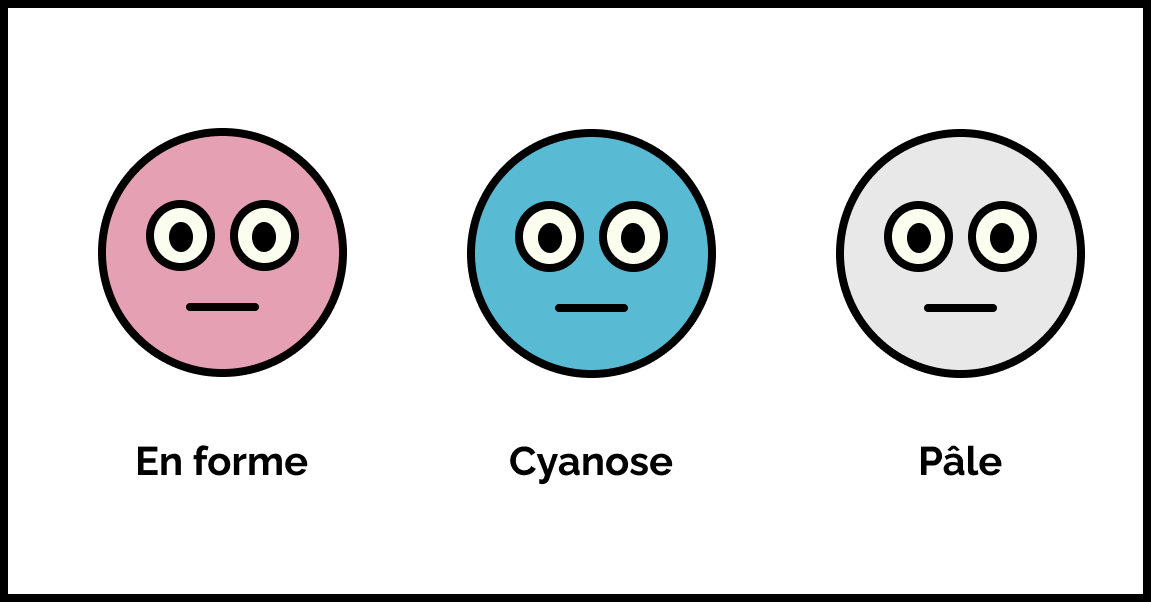
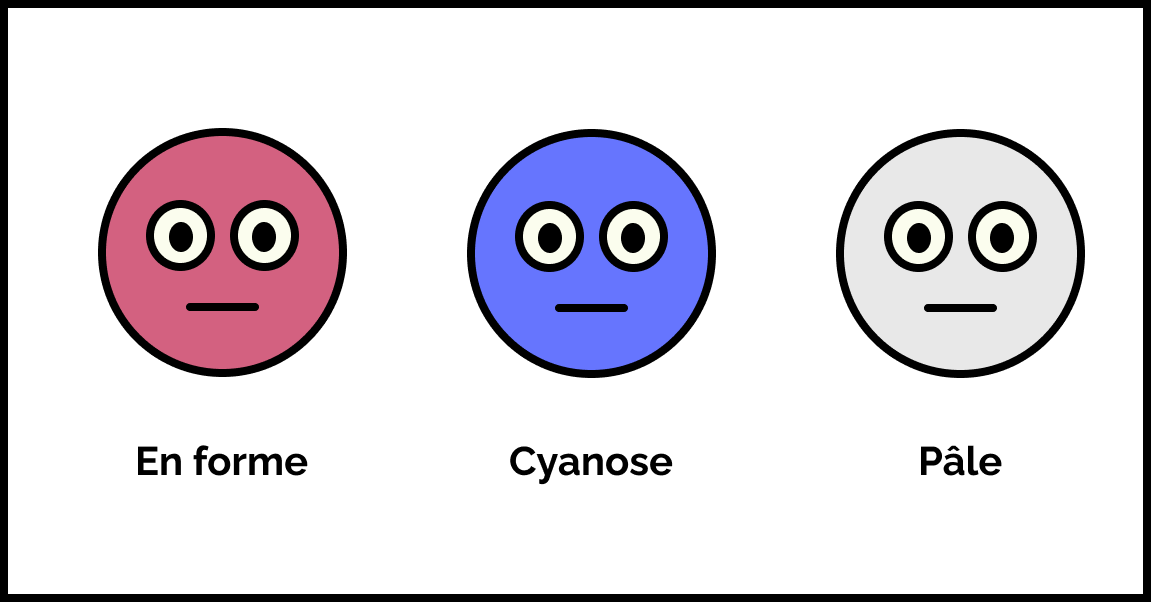
more v2.1 patches for pre-tri drill

Changed region(s): [[0.3953, 0.2093, 0.6386, 0.6279], [0.0912, 0.2093, 0.3041, 0.6279]]

diff --git a/gameModel/libs/ClientScript/game/display/graphics.ts b/gameModel/libs/ClientScript/game/display/graphics.ts
@@ -26,7 +26,7 @@ export interface HumanOverview {
  * Category Card SVG
  */
 function getCategoryCardSvg(category: Category<string> | undefined, x: number | string = 0, y: number|string = 0, size: number|string = 4): string {
-		return `<svg width="${size}" height="${size}" stroke-width="3.5%" viewBox="-10 -10 150 150" fill="none" x=${x} y=${y} xmlns="http://www.w3.org/2000/svg">
+		return `<svg width="${size}" height="${size}"  style="max-height:100%; max-width:100%;" stroke-width="3.5%" viewBox="-10 -10 150 150" fill="none" x=${x} y=${y} xmlns="http://www.w3.org/2000/svg">
 <path d="M0.5 64.0144V12.1875C0.5 5.73259 5.73259 0.5 12.1875 0.5H64.0144C67.1141 0.500016 70.0868 1.73139 72.2786 3.92322L126.077 57.7214C130.641 62.2856 130.641 69.6858 126.077 74.25L74.25 126.077C69.6858 130.641 62.2856 130.641 57.7214 126.077L3.92322 72.2786C1.73139 70.0868 0.500016 67.1141 0.5 64.0144ZM28.4375 15.75C21.4303 15.75 15.75 21.4303 15.75 28.4375C15.75 35.4447 21.4303 41.125 28.4375 41.125C35.4447 41.125 41.125 35.4447 41.125 28.4375C41.125 21.4303 35.4447 15.75 28.4375 15.75Z" fill="${category?.bgColor}"/>
 </svg>`
 }
@@ -76,7 +76,7 @@ interface PictoOptions {
 function getStanding({ height_px, classes, bloodStyle, category, offset }: PictoOptions) {
 	const left = offset ? -0.51 * height_px : 0;
 	const top = offset ? -0.97 * height_px : 0;
-	return `<svg style="position: relative; left: ${left}px; top:${top}px;  max-height:100%; max-width:100%;" class="body_picto ${classes}" height="${height_px}" max-height="100%" max-width="100%" viewBox="0 0 600 600" fill="black" xmlns="http://www.w3.org/2000/svg">
+	return `<svg style="position: relative; left: ${left}px; top:${top}px;  max-height:100%; max-width:100%;" class="body_picto ${classes}"  max-height="100%" max-width="100%" viewBox="0 0 600 600" fill="black" xmlns="http://www.w3.org/2000/svg">
     			<path style="${bloodStyle} transform-origin:50% 97%;" class="blood" d="M294,541.15s-30.72-2.98-38.99,0c-8.27,2.98-37.81,12.18-33.09,21.37,4.73,9.19,38.99,15.76,48.45,15.76s21.27,14.44,37.81,14.44,52.66-10.5,69.46-11.82c16.8-1.31,54.93-6.94,54.18-14.63-.75-7.69-22.57-17.33-37.66-16.45-15.09,.88-21.46-10.34-36.59-8.67-15.13,1.67-45.82,1.17-63.58,0Z" 
 				fill="#d11c1c"/>
 				<g>
@@ -96,7 +96,7 @@ function getStanding({ height_px, classes, bloodStyle, category, offset }: Picto
 function getSitting({ height_px, classes, bloodStyle, category, offset }: PictoOptions) {
 	const left = offset ? -0.635 * height_px : 0;
 	const top = offset ? -0.6 * height_px : 0;
-	return `<svg style="position: relative; left: ${left}px; top:${top}px; max-height:100%; max-width:100%;" class="body_picto ${classes}" height="${height_px}" viewBox="0 0 600 600" fill="black" xmlns="http://www.w3.org/2000/svg">
+	return `<svg style="position: relative; left: ${left}px; top:${top}px; max-height:100%; max-width:100%;" class="body_picto ${classes}" viewBox="0 0 600 600" fill="black" xmlns="http://www.w3.org/2000/svg">
     <path style="${bloodStyle}; transform-origin:65% 65%;" class="blood" d="M297.97,400.21s-30.72-2.98-38.99,0c-8.27,2.98-37.81,12.18-33.09,21.37,4.73,9.19,38.99,15.76,48.45,15.76s21.27,14.44,37.81,14.44,52.66-10.5,69.46-11.82c16.8-1.31,54.93-6.94,54.18-14.63-.75-7.69-22.57-17.33-37.66-16.45-15.09,.88-21.46-10.34-36.59-8.67-15.13,1.67-45.82,1.17-63.58,0Z" 
 fill="#d11c1c"/>
 	<g class="sitting_position">	
@@ -120,7 +120,7 @@ fill="#d11c1c"/>
 function getSupineDecubitus({ height_px, classes, bloodStyle, category, offset }: PictoOptions) {
 	const left = offset ? -0.44 * height_px : 0;
 	const top = offset ? -0.5 * height_px : 0;
-	return `<svg style="position: relative;left: ${left}px; top:${top}px; max-height:100%; max-width:100%;" class="body_picto ${classes}" width="${height_px}"  viewBox="0 0 600 600" fill="black" xmlns="http://www.w3.org/2000/svg">
+	return `<svg style="position: relative;left: ${left}px; top:${top}px; max-height:100%; max-width:100%;" class="body_picto ${classes}"   viewBox="0 0 600 600" fill="black" xmlns="http://www.w3.org/2000/svg">
     <path style="${bloodStyle}; transform-origin:50% 60%;" class="blood" d="M253.59,335.59s-30.72-2.98-38.99,0c-8.27,2.98-37.81,12.18-33.09,21.37,4.73,9.19,38.99,15.76,48.45,15.76s21.27,14.44,37.81,14.44,52.66-10.5,69.46-11.82c16.8-1.31,54.93-6.94,54.18-14.63-.75-7.69-22.57-17.33-37.66-16.45-15.09,.88-21.46-10.34-36.59-8.67-15.13,1.67-45.82,1.17-63.58,0Z" 
 fill= "#d11c1c"/>
 <path d="M581.61,295.92c-.01-2.06-.54-4.73-1.92-6.04-.54-.51-1.18-.76-1.89-.76h-.18c-1.83,.12-2.97,1.87-4,3.66-4,7.02-8.49,14.35-13.96,20.02,0,.01-.01,.01-.03,.03-4.77,4.97-10.28,8.66-16.87,9.79l-1.05,.18c-4.38,.74-9.33,1.59-13.67,1.78l-12.58,.3c-.26-.04-25.19-3.8-35.68-5.8-7.43-1.42-15-2.74-22.33-4.01-5.32-.93-10.82-1.88-16.22-2.87-5.42-.99-11.71-2.17-17.82-3.53-3.4-.74-6.77-1.78-10.04-2.77-4.05-1.23-8.23-2.51-12.47-3.27-4.44-.8-10.32-1.83-16.31-2.73-15.05-2.26-28.6-3.82-41.45-4.74-6.94-.5-12.64-.73-17.81-.73h-.93c-8.3,.05-17.38,1.12-26.17,2.16-9.93,1.18-20.2,2.4-29.32,2.12-3.49-.1-4.94-.88-6.61-1.75-1.37-.72-2.91-1.53-5.92-2.05-.03,0-.05-.04-.05-.08,.01-.03,.05-.05,.08-.05,3.02,.52,4.57,1.35,5.95,2.06,1.66,.88,3.1,1.63,6.56,1.74,9.11,.27,19.38-.94,29.31-2.12,8.79-1.03,17.89-2.1,26.18-2.16h.93c5.19,0,10.88,.24,17.82,.73,12.84,.93,26.39,2.48,41.46,4.74,5.98,.9,11.85,1.93,16.31,2.73,4.23,.77,8.43,2.04,12.48,3.27,3.27,.99,6.64,2.03,10.02,2.78,6.12,1.36,12.4,2.52,17.81,3.51,5.41,.99,10.91,1.95,16.23,2.87,7.32,1.27,14.9,2.59,22.33,4.01,10.48,2,35.42,5.76,35.67,5.8l12.57-.3c4.33-.18,9.28-1.03,13.64-1.78l1.05-.17c6.53-1.12,12.03-4.8,16.8-9.72h0c-.2-6.89,1.29-12.13,4.66-16.53,3.38-4.4,5.53-12.75,5.11-19.87-.12-2.03-.68-5.44-3.11-5.44-.5,0-1.23,.95-2,2.23-.77,1.27-1.58,2.86-2.23,4.13-.6,1.16-1.06,2.08-1.32,2.43-3.35,4.52-6.18,7.5-8.92,10.37-2.74,2.87-5.58,5.85-8.91,10.36-3.76,5.1-7.96,10.17-14.26,11.42-7.11,1.42-14.44,.88-21.55,.34-4.52-.34-9.06-.68-13.58-1.02-3.62-.27-7.3-.5-10.86-.71-8.85-.54-17.98-1.1-26.93-2.46-11.25-1.72-29.7-7.34-41.92-11.07-1.1-.34-2.16-.67-3.15-.97-3.75-1.14-6.66-1.45-9.73-1.79-2.77-.31-5.64-.63-9.17-1.61-24.57-6.78-44.23-6.27-66.98-5.67-3.11,.08-6.32,.17-9.59,.24-4.08-.04-6.94,.22-9.96,.5-3.36,.31-7.15,.67-13.34,.67h-.2c-3.21,0-7.07-.37-11.54-.78-8.65-.82-19.42-1.84-30.48-.55-5.45,.64-10.37,1.39-15.13,2.12-6.13,.93-11.92,1.82-17.56,2.22-16.03,1.16-25.07,1.02-25.17,1.02-5.33,.85-13.34,.5-18.23-.8-2-.52-3.4-1.05-4.64-1.5-1.91-.71-3.57-1.32-6.7-1.72-7.25-.93-15.72-.14-23.86,2.21-4.52,1.31-8.95,3.88-13.24,6.36-2.78,1.61-5.66,3.28-8.48,4.55-4.02,1.8-8.45,2.34-12.74,2.86l-4.05,.48c-.67,.08-1.32,.12-1.83-.21-.81-.54-.81-1.7-.72-2.64,.25-2.76,.05-4.98-.16-7.34-.1-1.2-.21-2.43-.27-3.79-.01-.34-.03-.69-.03-1.06-.05-2.44-.13-5.49-2.3-6.85-.76-.47-1.66-.55-2.67-.6-1.23-.05-2.42-.14-3.58-.22-4.22-.3-8.21-.57-12.19,.41-.03,0-.05-.01-.07-.04-.2-.37-.37-.74-.52-1.12-.18-.43-.38-.89-.63-1.32l-.05-.08c-.57-1.01-1.23-2.13-2.34-2.13-.08,0-.16,0-.24,.01-.57,.08-1.57,.68-2.09,1.01l-.08,.04c-1.08,.67-2.21,1.49-3.31,2.3-1.1,.81-2.23,1.65-3.32,2.3l-.84,.38h-.01c-1.92,.3-3.7,.26-5.41,.21-2.77-.07-5.38-.13-8.11,1.25-5.46,2.74-12.83,7.43-16.96,14.14-5.19,8.43-6.59,23.21-3.11,32.95,2.99,8.4,11.26,15.27,20.57,17.12,12.49,2.46,25.96-2.57,32.76-12.24,.67-.94,1.18-1.92,1.67-2.86,1.19-2.27,2.31-4.42,5.2-5.27,2.1-.61,3.82-.63,5.46-.65,1.69-.01,3.4-.04,5.51-.69,.74-2.85,2.03-5.03,3.99-6.78,2.76-2.46,6.95-4.17,12.84-5.24,.03,0,.07,.03,.08,.05,0,.04-.03,.08-.05,.08-12.05,2.17-15.46,6.89-16.73,11.9,.01,0,.03,.01,.03,.03,.01,.03-.01,.07-.05,.08-.13,.5-.24,1.01-.33,1.5-1.36,7.68,2.78,14.66,5.38,18.14,1.58,2.12,4.09,3.23,6.52,4.3,.55,.25,1.12,.5,1.67,.76,2.6,1.22,8.7,2.57,11.54,2.87,4.19,.46,6.89,.88,9.5,1.27,3.48,.52,6.47,.98,12.07,1.41,.29,.04,28.75,4.27,34.03,4.27,4.57,0,46.41-3.72,51.64-4.48,6.27-.91,14.2-.69,17.72-.34,1.37,.14,4.73,1.16,8.27,2.25,4.17,1.27,8.47,2.57,9.96,2.57,2.89,0,5.53-1.49,8.58-3.21,.73-.42,1.5-.85,2.29-1.27,.98-.52,1.92-.98,2.85-1.41,2.51-1.2,4.87-2.34,7.03-4.47,.59-.57,1.08-1.2,1.5-1.89,0-.01,.01-.03,.01-.04,.47-.78,.84-1.66,1.14-2.69,.1-.35,.25-.77,.41-1.2,.64-1.8,1.42-4.06,.4-5.14-1.45-1.53-2.98-1.48-8.3-.5-2.16,.41-4.48,2-6.73,3.53-1.19,.82-2.33,1.59-3.37,2.14-.6,.31-1.18,.63-1.74,.94-3.72,2.06-6.66,3.7-9.76,.31l-.67-.68h-.01c-.65-1.61,.22-3.38,1.42-4.33,1.07-.84,2.51-1.29,4.52-1.45,.54-.04,1.07-.07,1.59-.08,1.05-.04,2.13-.08,3.18-.29,1.02-.2,2.87-.77,3.87-2.31-4.02-.64-8.11-.89-12.18-.73-2.69,.1-6.21,.39-9.41,1.76-1.45,.63-2.82,1.46-4.16,2.27-.61,.37-1.24,.76-1.88,1.11l-2.38,1.2h-.03c-6.59,.64-13.16,.31-21.98-1.08-10.52-1.66-30.71-1.29-38.31-1.15-1.33,.03-2.3,.04-2.82,.04-.88,0-2.46-.52-4.56-1.36-2.09-.84-4.69-2.01-7.59-3.32-6.01-2.69-13.48-6.05-20.34-8.22-1.32-.43-3.62-1.01-6.05-1.62-3.95-.99-8.43-2.12-10.54-3.01-.04-.01-.05-.05-.04-.08,.01-.04,.05-.05,.09-.04,2.1,.89,6.57,2.01,10.52,3.01,2.44,.6,4.74,1.19,6.06,1.61,6.86,2.18,14.35,5.54,20.36,8.23,5.79,2.61,10.37,4.66,12.1,4.66,.52,0,1.48-.01,2.82-.04,7.6-.14,27.81-.51,38.34,1.15,8.79,1.4,15.35,1.72,21.94,1.08l2.37-1.18c.63-.37,1.25-.74,1.87-1.12,1.33-.81,2.7-1.65,4.17-2.27,3.23-1.39,6.74-1.67,9.46-1.78,4.1-.16,8.23,.09,12.3,.74,.03,0,.04,.01,.05,.04,0,.01,0,.04-.01,.07-.99,1.65-2.94,2.25-4,2.46-1.06,.21-2.14,.25-3.2,.29-.51,.03-1.06,.04-1.58,.08-1.99,.14-3.41,.6-4.46,1.42-1.16,.9-2.01,2.61-1.38,4.14l.67,.67c3.02,3.31,5.92,1.7,9.59-.34,.56-.3,1.14-.63,1.74-.94,1.05-.55,2.17-1.32,3.37-2.13,2.26-1.54,4.59-3.14,6.77-3.55,5.38-.99,6.94-1.03,8.41,.54,1.08,1.14,.27,3.42-.38,5.27-.14,.43-.29,.85-.39,1.2-.29,.99-.65,1.84-1.08,2.61,23.39-2.29,47.86-5.15,68.43-10.52,1.32-.34,2.64-.69,3.97-1.05,10.74-2.86,21.85-5.81,33.05-5.23,5.04,.27,10.17,2.27,16.66,4.8,11.32,4.4,26.71,10.39,51.59,10.39,.77,0,1.57,0,2.37-.01,5.03-.08,13.94-1.29,24.25-2.72,10.3-1.41,21.96-3.02,31.58-3.67h4.59c4.74,0,14.19,2.42,17.68,5,1.01,.74,1.89,1.49,2.76,2.21,2.29,1.91,4.27,3.57,7.4,4.51,4.16,1.24,9.71,.31,11.82-3.84,1.37-2.72,.85-5.7,.3-8.86-.37-2.1-.74-4.27-.52-6.36,.48-4.39,3.54-7.81,6.48-11.12,1.59-1.78,3.23-3.62,4.48-5.61,4.17-6.64,4.1-15.22,4.06-22.11Zm-511.3,21.51c-3.37,1.01-5.61,4.29-7.4,6.91-2.03,2.95-4.29,5.91-7.66,6.7-.51,.12-1.03,.18-1.54,.18-2.95,0-5.84-1.88-6.9-4.68-1.24-3.29,.29-7.3,3.38-8.95,.04-.01,.08,0,.09,.03,.01,.04,0,.08-.03,.09-2.99,1.59-4.52,5.61-3.33,8.78,1.2,3.18,4.99,5.2,8.3,4.42,3.32-.78,5.57-3.71,7.58-6.65,1.8-2.64,4.05-5.93,7.46-6.96,.04-.01,.08,.01,.09,.05,0,.03-.01,.07-.05,.08Z" 
@@ -133,9 +133,9 @@ style="stroke:#fff; stroke-miterlimit:10;"/>
 function getProneDecubitus({ height_px, classes, bloodStyle, category, offset }: PictoOptions) {
 	const left = offset ? -0.44 * height_px : 0;
 	const top = offset ? -0.55 * height_px : 0;
-	return `<svg style="position: relative; left: ${left}px; top:${top}px; max-height:100%; max-width:100%;" class="body_picto ${classes}" width="${height_px}" viewBox="0 0 600 600" fill="black" xmlns="http://www.w3.org/2000/svg">
+	return `<svg style="position: relative; left: ${left}px; top:${top}px; max-height:100%; max-width:100%;" class="body_picto ${classes}" viewBox="0 0 600 600" fill="black" xmlns="http://www.w3.org/2000/svg">
     <g class="ventral_position">
-        <path style="${bloodStyle}  transform-origin:50% 43%;" class="blood"d="M220.99,346.22s-30.72-2.98-38.99,0c-8.27,2.98-37.81,12.18-33.09,21.37,4.73,9.19,38.99,15.76,48.45,15.76s21.27,14.44,37.81,14.44,52.66-10.5,69.46-11.82c16.8-1.31,54.93-6.94,54.18-14.63-.75-7.69-22.57-17.33-37.66-16.45-15.09,.88-21.46-10.34-36.59-8.67-15.13,1.67-45.82,1.17-63.58,0Z" 
+        <path style="${bloodStyle}  transform-origin:50% 60%;" class="blood"d="M220.99,346.22s-30.72-2.98-38.99,0c-8.27,2.98-37.81,12.18-33.09,21.37,4.73,9.19,38.99,15.76,48.45,15.76s21.27,14.44,37.81,14.44,52.66-10.5,69.46-11.82c16.8-1.31,54.93-6.94,54.18-14.63-.75-7.69-22.57-17.33-37.66-16.45-15.09,.88-21.46-10.34-36.59-8.67-15.13,1.67-45.82,1.17-63.58,0Z" 
 		fill="#d11c1c"/>
 		<g>
 		<path d="M106.03,348.7c-1.16,1.29-3.81,3.22-5.4,3.92-1.92,.85-3.93,1.56-5.92,2.23-4,1.35-8.08,2.41-12.23,3.2-6.67,1.26-13.48,1.8-20.27,1.59-7.52-.23-15.36-3.2-21.98-6.66-4.72-2.47-9.09-5.82-12.04-10.26-6.19-9.31-5.52-22.59-.78-32.38,2.07-4.28,5.18-8.03,9.24-10.55,10.46-6.52,24.53-5.31,34.52,1.34,.99,.66,2.12,1.23,3.45,1.72-.28,.09-.56,.23-.85,.37-2.24,1.11-2.11,3.65-1.74,5.73,0,.03,.03,.05,.07,.05,.04-.01,.07-.04,.05-.08-.36-2.03-.49-4.51,1.67-5.58,.34-.17,.66-.31,1.01-.44,1.01-.33,1.99-.38,2.98-.15,1.19,.29,2.37,.84,3.5,1.64,.32,.21,.62,.45,.95,.73,1.55,1.31,2.96,3.05,4.27,5.29,.69,1.18,1.07,2.33,1.45,3.45,.62,1.83,1.21,3.57,3.01,4.95,1.01,.77,2.19,1.19,3.33,1.6,.29,.09,.57,.2,.85,.31,1.96,.74,3.45,1.8,4.68,3.36,.78,.99,1.46,2.1,2.1,3.16,.15,.24,.29,.48,.44,.72,2.27,3.69,4.19,7.07,5.27,11.02,.85,3.14,.97,6.85-1.62,9.72Z" 
@@ -155,7 +155,7 @@ function getProneDecubitus({ height_px, classes, bloodStyle, category, offset }:
 function getRecoveryPosition({ height_px, classes, bloodStyle, category, offset}: PictoOptions) {
 	const left = offset ? -0.5 * height_px : 0;
 	const top = offset ? -0.5 * height_px : 0;
-	return `<svg style="position: relative; left: ${left}px; top:${top}px; max-height:100%; max-width:100%;" class="body_picto ${classes}" width="${height_px}" viewBox="0 0 600 600" fill="black" xmlns="http://www.w3.org/2000/svg">
+	return `<svg style="position: relative; left: ${left}px; top:${top}px; max-height:100%; max-width:100%;" class="body_picto ${classes}"  viewBox="0 0 600 600" fill="black" xmlns="http://www.w3.org/2000/svg">
     <g class="pls_position">
         <path style="${bloodStyle} transform-origin:50% 40%;" class="blood" d="M233.9,342.9s-30.72-2.98-38.99,0c-8.27,2.98-37.81,12.18-33.09,21.37,4.73,9.19,38.99,15.76,48.45,15.76s21.27,14.44,37.81,14.44,52.66-10.5,69.46-11.82c16.8-1.31,54.93-6.94,54.18-14.63-.75-7.69-22.57-17.33-37.66-16.45-15.09,.88-21.46-10.34-36.59-8.67-15.13,1.67-45.82,1.17-63.58,0Z" 
 fill="#d11c1c"/>
@@ -387,7 +387,7 @@ function getSkinColoration(colorful: number, cyanosis: boolean): string {
 
 	// Threshold
 	colorful < palorThreshold ? color = '#FFFFFF' : "";
-	cyanosis ? color = "#59BBD3" : color = "#E5A0B3";
+	cyanosis ? color = "#6675FE" : color = "#D36180";
 
 	return color;
 }

diff --git a/gameModel/libs/CSS/patientZoom_general.css b/gameModel/libs/CSS/patientZoom_general.css
@@ -33,6 +33,31 @@
 	flex-grow: 1;
 }
 
+.lastResult div .log_container{
+	color: #313131;
+    animation: popping 1s linear;
+	padding-left: 10px;;
+	border-radius: 15px;
+	align-items: baseline;
+	
+}
+
+@keyframes popping{
+	0%{
+		color: #924D86;
+		background-color: #d3617f59;
+		
+	}
+
+	50%{
+		color: #924D86;
+		background-color: #d3617f59;
+	}
+	100%{
+		
+	}
+}
+
 .responsiveButtons .selected,
 .patientConsole .selected {
 	background-color: var(--colors-activecolor);
@@ -113,6 +138,7 @@
 	overflow: auto;
 	min-height: 100px;
 	max-height: 180px;
+	font-size: .7rem;
 }
 
 
@@ -139,6 +165,7 @@ border: none;
 .tabs{
 	padding: 0px;
 	margin: 0px;
+	width: 100%;
 }
 /* triangle under ABCDWheelMenu */
 .toolbox .menu {
@@ -202,9 +229,17 @@ border: none;
 }
 
  .wheelButton> button:hover{
-background-color: var(--colors-primarycolor);
+background-color: #666191;
+border-color: #666191;
 color: #fff;
 }
+
+ .wheelButton> button:hover.selected{
+background-color:var(--colors-primarycolorshade);
+border-color:var(--colors-primarycolorshade);
+color: #fff;
+}
+
 .ABCDwheelMenu .wheelButton:nth-child(1){
 	grid-column: 1;
 	grid-row: 3;
@@ -247,7 +282,8 @@ color: #fff;
 }
 .ABCDwheelMenu .wheelButton:nth-child(6) > button:hover, .ABCDwheelMenu .wheelButton:nth-child(6) > button.selected {
 	color: var(--colors-backgroundcolor);
-	background-color: var(--colors-primarycolor);
+	background-color: #666191;
+	border-color: #666191;
 }
 
 /*BUTTON DRILL PATIENT*/
@@ -260,7 +296,8 @@ color: #fff;
 }
 
 .btnTriage > button:hover{
-	background-color: var(--colors-primarycolor);
+	background-color: #666191;
+	border-color: #666191;
 	color: #fff;
 } 
 
@@ -283,6 +320,7 @@ color: #fff;
 	border-radius: 15px 15px 0px 0px;
 	border-bottom:none;
 	padding: 5px 15px 5px  15px ;
+	flex-grow: 2;
 }
 
 .mesActBtn.selected{
@@ -294,10 +332,10 @@ color: #fff;
 }
 
 .mesActBtn:hover{
-	color: #fff !important;
-	background-color:var(--colors-primarycolorshade);
-	border: solid 3px var(--colors-primarycolorshade);
-	border-bottom:none;
+	color: #fff;
+	background-color:#666191;
+	border: solid 3px #666191;
+	border-bottom: none;
 }
 
 .mesActBtn.no-selection{
@@ -325,14 +363,20 @@ color: var(--colors-disabledcolor);
 
 .selectedSubMenuItem:hover{
 	color: #fff;
-	border-color: var(--colors-activecolor);
-	background-color: var(--colors-activecolor);
+	border-color: #666191;
+	background-color: #666191;
 }
 
 
 .applyMeasureBtn{
 padding: 10px 25px 10px 25px;
-border-radius: 50px;
+border-radius: 10px;
+background-color: #924D86;
+}
+
+.applyMeasureBtn:hover{
+	background-color: #753E6B;
+
 }
 
 /* RESPONSIVE */

diff --git a/gameModel/libs/CSS/general.css b/gameModel/libs/CSS/general.css
@@ -4,21 +4,19 @@ button.wegas-btn > div > div > p:first-child:last-child {
 	
 }
 
-.invertedButton {
+.navButton {
 	background-color: transparent;
 	color: var(--colors-primarycolor);
-	border: 3px solid var(--colors-primarycolor);
 	border-radius: 50px;
 	font-weight: bold;
 }
-.invertedButton:hover {
-	color: #fff;
-	border-color: var(--colors-primarycolorshade);
+.navButton:hover {
+	text-decoration: underline;
+	background-color: #fff;
 }
-.invertedButton.disabled {
+.navButton.disabled {
 	background-color: transparent;
 	color: var(--colors-disabledcolor);
-	border: 3px solid var(--colors-disabledcolor);
 }
 
 .noPadding {
